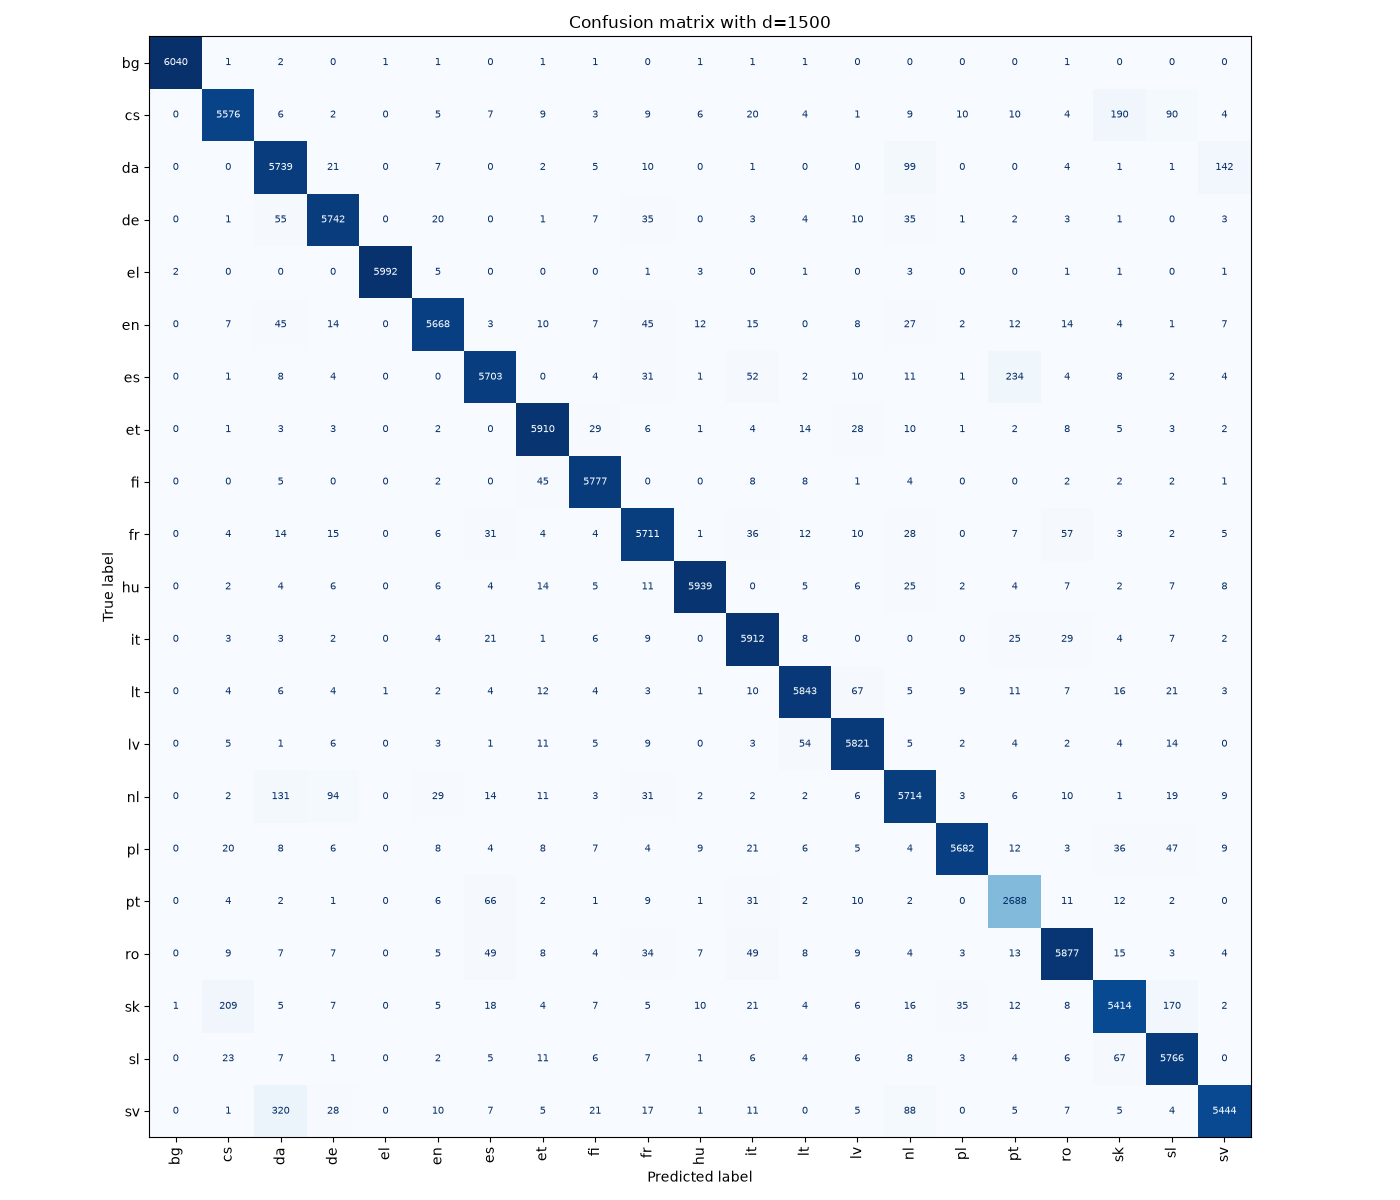
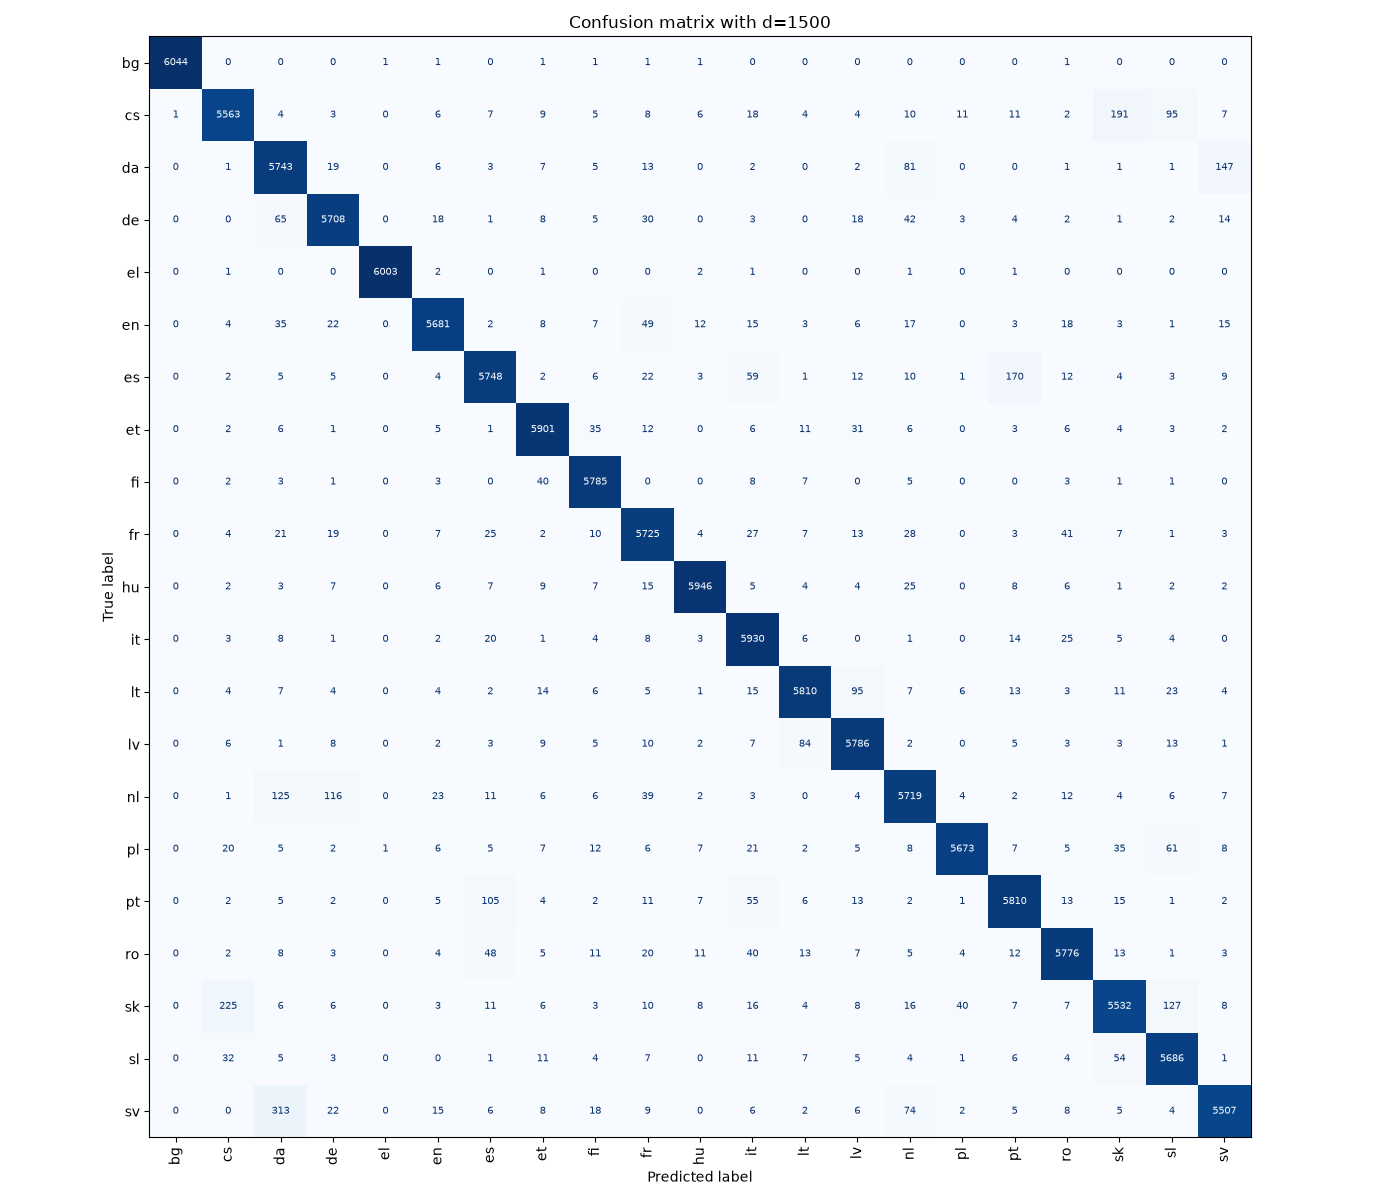
portugisiska var underrepresenterade, fixade mer balanserat datasets

Changed region(s): [[0.7064, 0.7092, 0.7679, 0.7708]]

diff --git a/lab2/part2/dataset.py b/lab2/part2/dataset.py
@@ -28,7 +28,7 @@ def preprocess_data(sentences: list[str]):
         s = unicodedata.normalize("NFKC", sentence).lower()
 
         # Replacement char or Latin-1-as-UTF-8 mojibake ("Ã©") -> drop the sentence
-        if "\ufffd" in s or "ã" in s or "â" in s and "€" in s:
+        if "\ufffd" in s or re.search(r"ã[\u0080-\u00bf]", s) or ("â" in s and "€" in s):
             continue
 
         # Trim whitespace

diff --git a/lab2/part2/visualize.py b/lab2/part2/visualize.py
@@ -1,7 +1,7 @@
 import matplotlib.pyplot as plt
 import pandas as pd
 
-df = pd.read_csv("results.csv")
+df = pd.read_csv("results2.csv")
 df["acc"] = df["acc"] / 100  # percent -> decimal
 
 fig, ax = plt.subplots(figsize=(8, 5))
